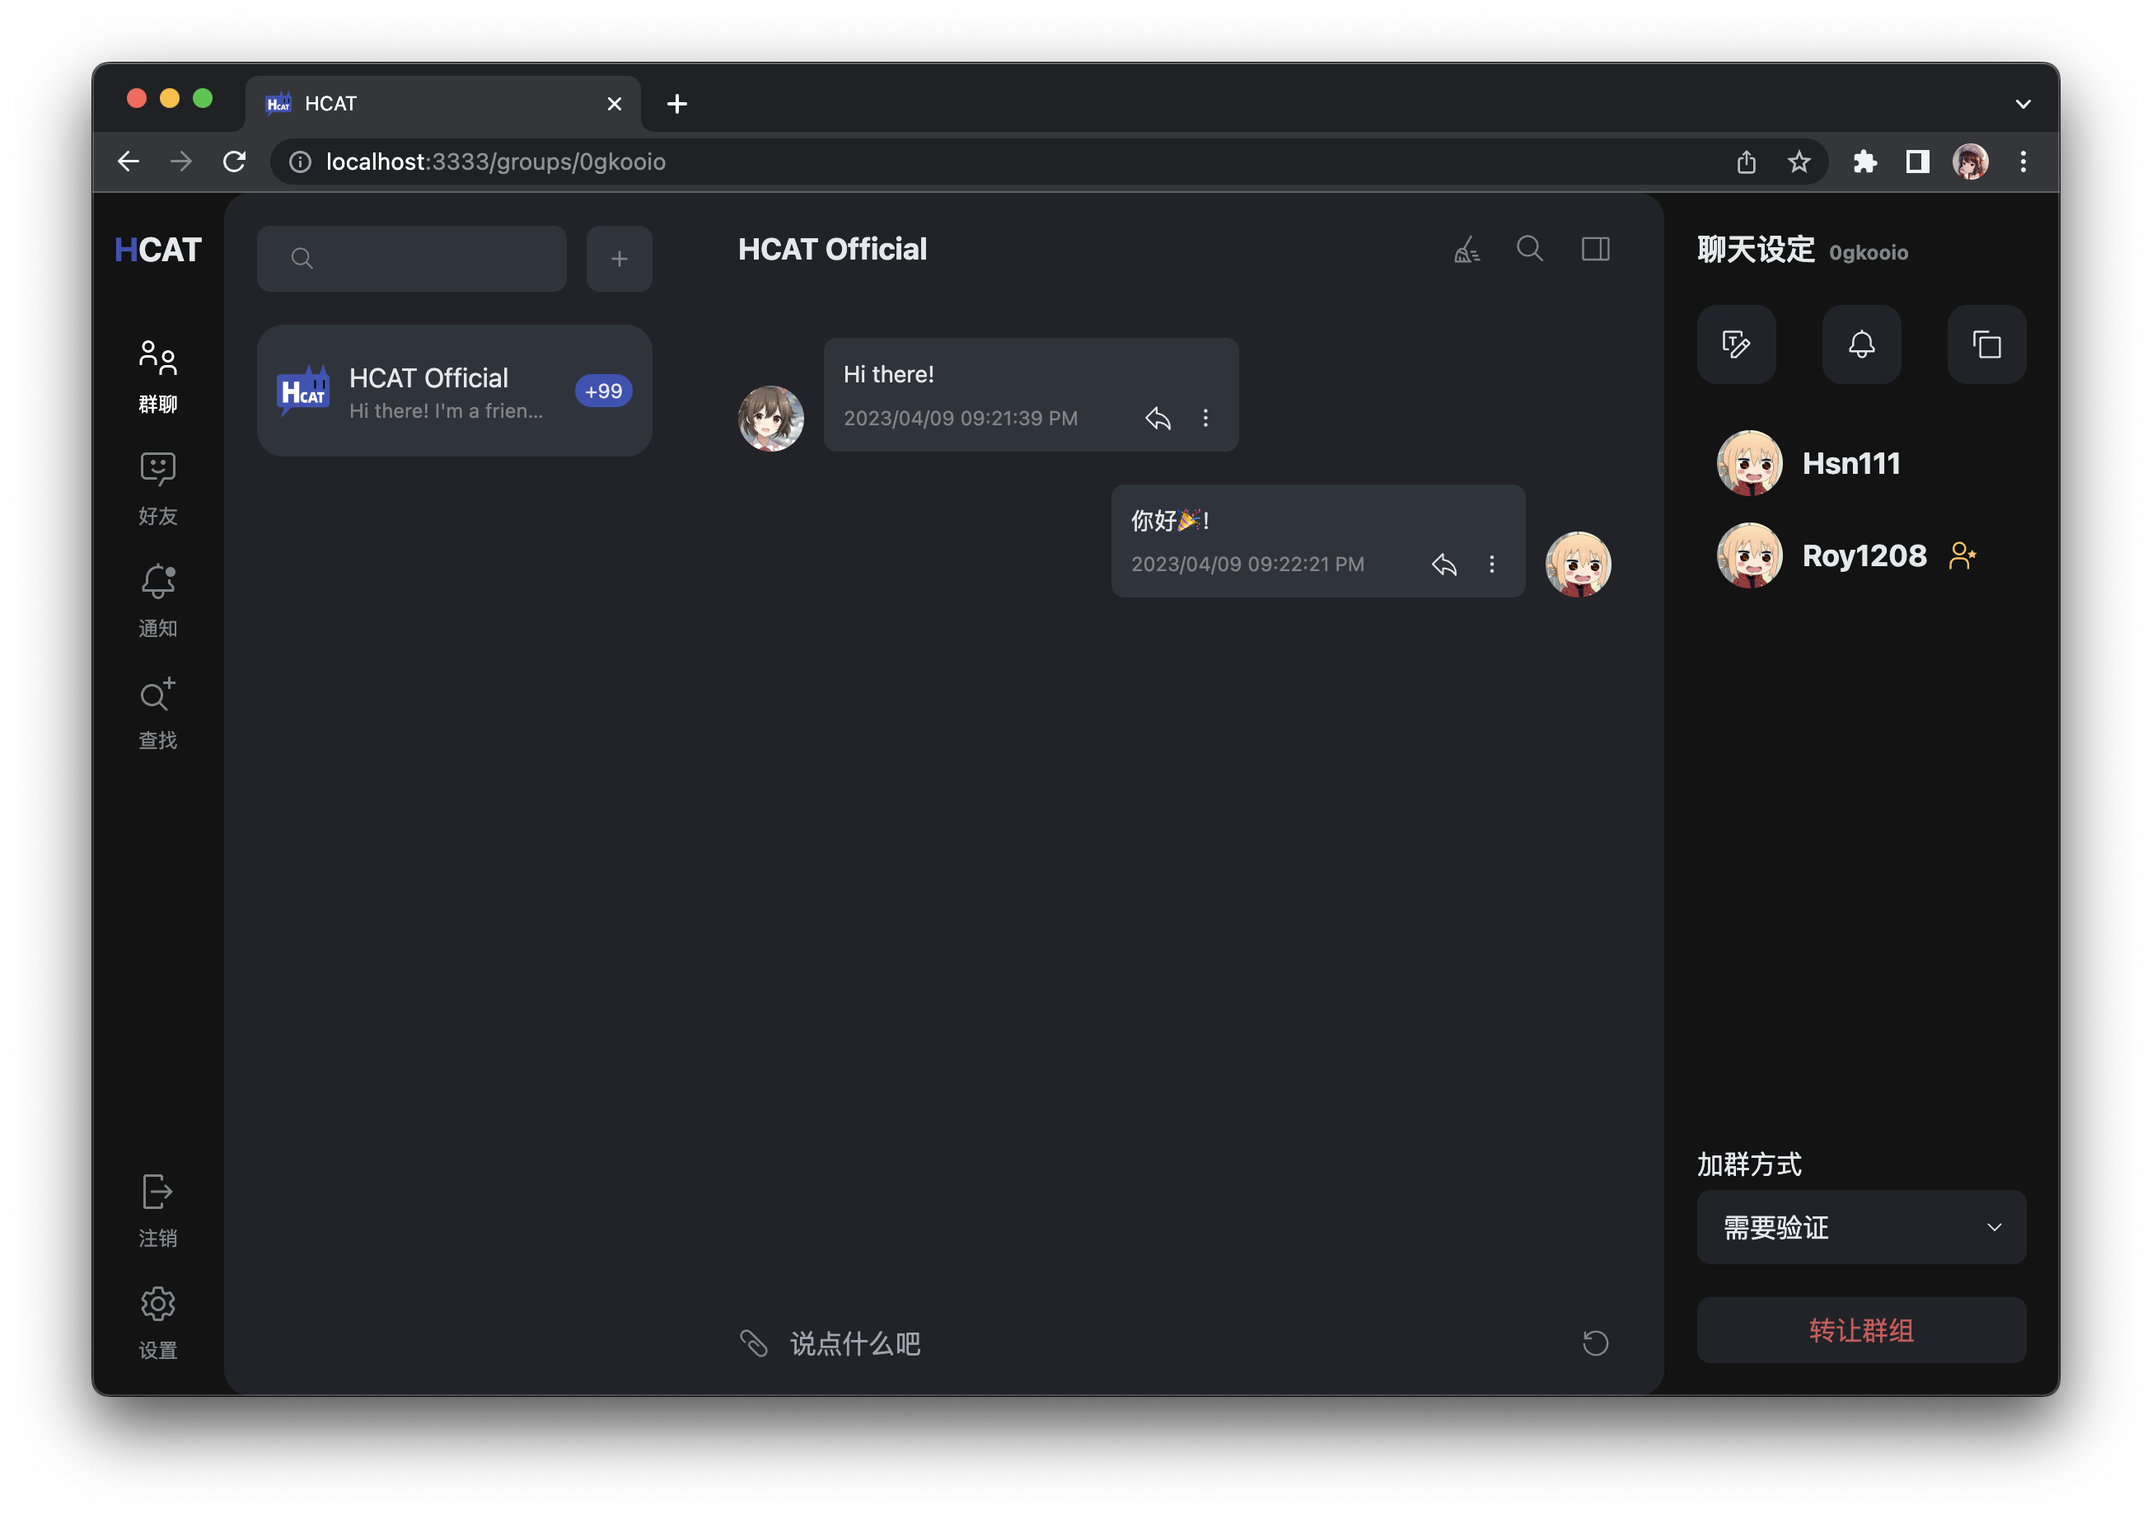
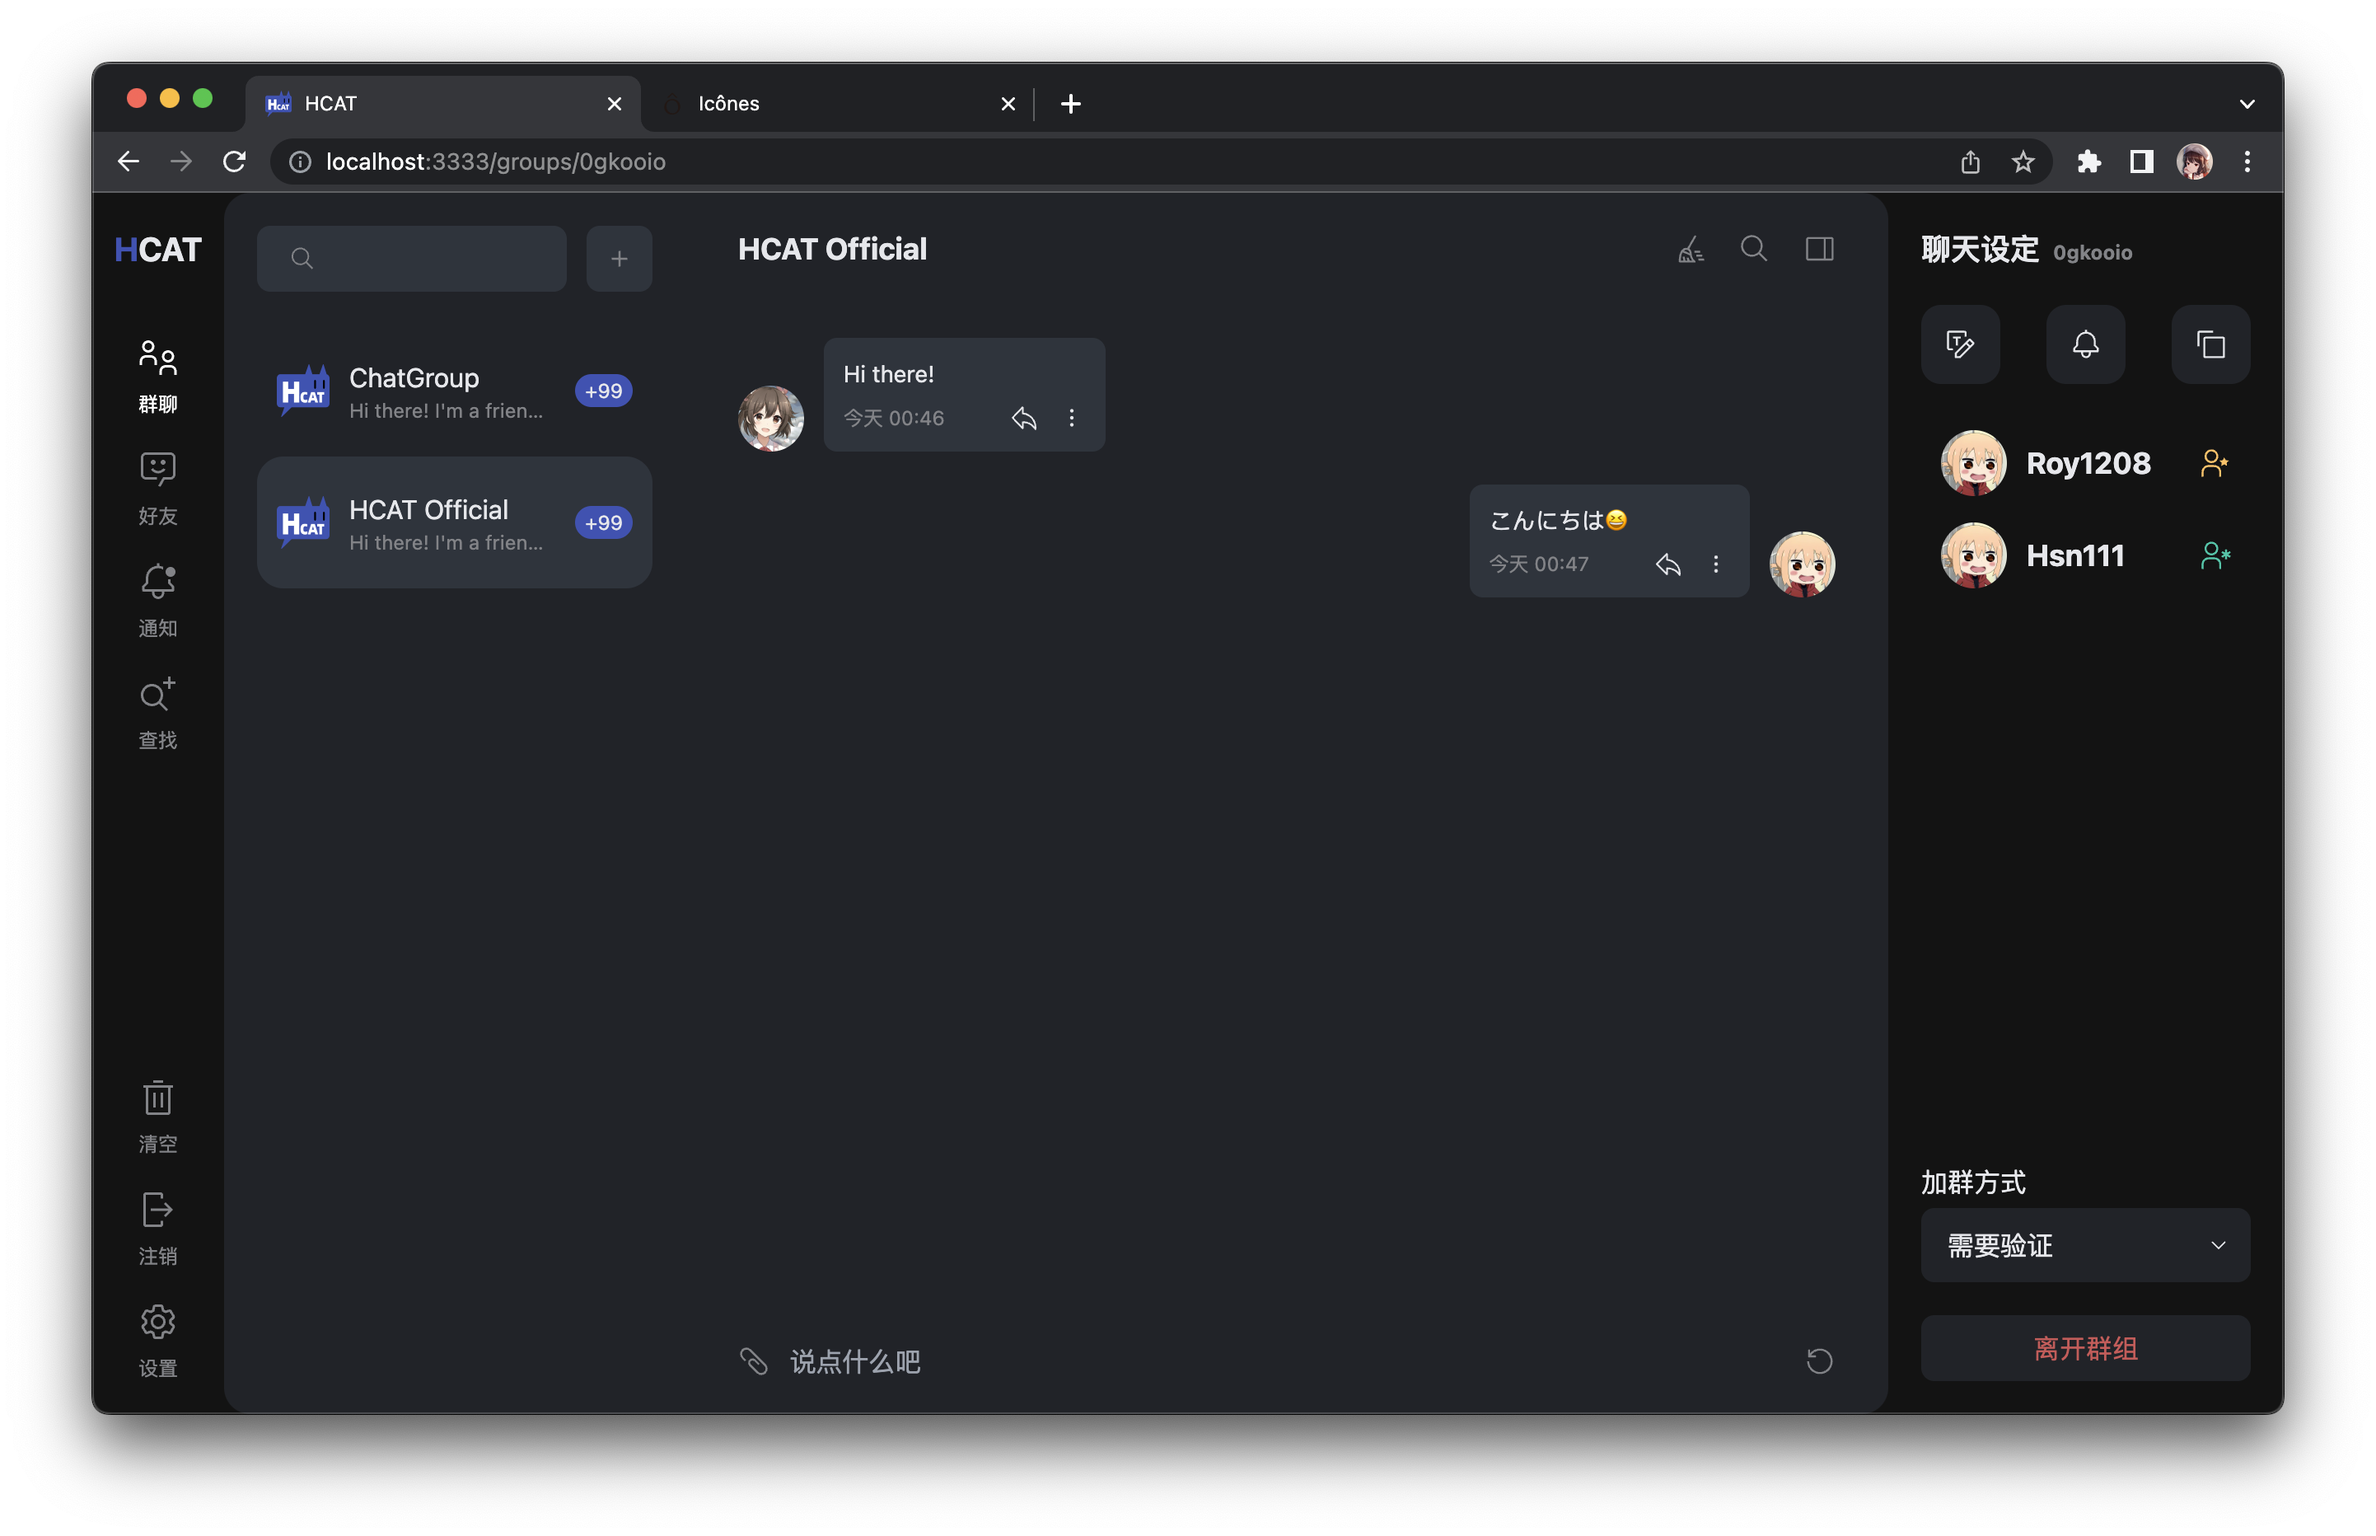
feat: assign admin in group

diff --git a/src/pages/index/groups/[id].vue b/src/pages/index/groups/[id].vue
@@ -15,28 +15,48 @@ const verificationMethod = $ref({
 })
 let inputMessage = $ref('')
 
-watch(() => props.id, () => {
-  changeActiveChat('group', props.id)
+watch(() => props.id, async () => {
+  await changeActiveChat('group', props.id)
 }, { immediate: true })
 
 async function changeActiveChat(type: ChatType, id: string) {
   // TODO:区分群聊和私聊
   store.activeChat.type = type
   store.activeChat.id = id
-  const getSelfPms = store.getSelfPmsInGroup(id).then((res: any) => {
-    store.activeChat.permission = res
+
+  const requestList = [getSelfPmsInGroup(), getGroupSetting(), getGroupMembers()]
+  await Promise.all(requestList)
+}
+
+async function getGroupMembers() {
+  await store.getGroupMembers().then((res) => {
+    // 将permission为owner的member放在第一位
+    const owners = []
+    const members = []
+    for (const k in res) {
+      const member = { user_id: k, permission: res[k].permission }
+      if (res[k].permission === 'owner')
+        owners.unshift(member)
+      else
+        members.push(member)
+    }
+    store.activeChat.members = owners.concat(members)
   }).catch((_) => {
   })
-  const getGroupSetting = store.getGroupSetting(id).then((res) => {
+}
+
+async function getGroupSetting() {
+  await store.getGroupSetting().then((res) => {
     store.activeChat.setting = res
   }).catch((_) => {
   })
-  const getGroupMembers = store.getGroupMembers(id).then((res) => {
-    store.activeChat.members = res
+}
+
+async function getSelfPmsInGroup() {
+  store.getSelfPmsInGroup().then((res: any) => {
+    store.activeChat.permission = res
   }).catch((_) => {
   })
-  const requestList = [getSelfPms, getGroupSetting, getGroupMembers]
-  await Promise.all(requestList)
 }
 
 async function sendMessage() {
@@ -47,7 +67,6 @@ async function sendMessage() {
     const msg = {
       msg_chain: [{ type: 'text', msg: inputMessage }],
     }
-
     const form = {
       group_id: store.activeChat.id,
       msg: JSON.stringify(msg),
@@ -106,6 +125,23 @@ async function fetchTodo() {
         msg,
       ]
     })
+  }).catch((err) => {
+    alert(err)
+  })
+}
+
+async function giveAdmin(userId: string) {
+  await store.addAdmin(userId).then(async (res) => {
+    await getGroupMembers()
+  }).catch((err) => {
+    alert(err)
+  })
+}
+
+// TODO: 后端无效
+async function removeAdmin(userId: string) {
+  await store.removeAdmin(userId).then(async (res) => {
+    await getGroupMembers()
   }).catch((err) => {
     alert(err)
   })
@@ -174,12 +210,20 @@ function clearMessages() {
       </div>
       <div flex-1 flex="~ col">
         <!-- Members -->
-        <div v-for="item, key in store.activeChat.members!" :key="key" flex items-center gap-3 hover="bg-back-gray" rounded-lg p="x3 y2">
-          <img src="/avatar.jpeg" w-10 h-10 rounded-full>
-          <p text="lg" font-bold>
-            {{ key }}
-          </p>
-          <div text-warning :class="[item.permission === 'owner' ? 'i-carbon-user-certification' : '']" />
+        <div v-for="item, key in store.activeChat.members" :key="key" flex items-center justify-between hover="bg-back-gray" rounded-lg p="x3 y2">
+          <div flex items-center gap-3>
+            <img src="/avatar.jpeg" w-10 h-10 rounded-full>
+            <p text="lg" font-bold>
+              {{ item.user_id }}
+            </p>
+          </div>
+          <div v-if="item.permission === 'owner'" text-warning i-carbon-user-certification />
+          <button v-else-if="item.permission === 'admin'" :disabled="store.activeChat.permission !== 'owner'" @click="removeAdmin(item.user_id)">
+            <div text-safe i-carbon-user-sponsor />
+          </button>
+          <button v-else :disabled="store.activeChat.permission !== 'owner'" @click="giveAdmin(item.user_id)">
+            <div text-text-secondary i-carbon-user-admin />
+          </button>
         </div>
       </div>
       <div v-if="store.activeChat.permission === 'owner' || store.activeChat.permission === 'admin'" flex="~ col" text-start gap-1>
@@ -199,7 +243,7 @@ function clearMessages() {
       <button v-if="store.activeChat.permission === 'owner'" bg-back-gray w-full py-2 rounded-lg hover="bg-back-light" text-important>
         转让群组
       </button>
-      <button v-if="store.activeChat.permission !== 'owner'" bg-back-gray w-full py-2 rounded-lg hover="bg-back-light" text-important @click="leaveGroup">
+      <button v-else bg-back-gray w-full py-2 rounded-lg hover="bg-back-light" text-important @click="leaveGroup">
         离开群组
       </button>
     </div>

diff --git a/src/stores/store.ts b/src/stores/store.ts
@@ -1,5 +1,5 @@
 import { defineStore } from 'pinia'
-import { agreeJoinGroupReqApi, authTokenApi, changeGroupSettingApi, createGroupApi, getGroupListApi, getGroupMembersApi, getGroupNameApi, getGroupSettingApi, getGroupVerificationApi, getSelfPmsInGroupApi, getTodoListApi, joinGroupApi, leaveGroupApi, loginApi, logoutApi, registerApi, sendGroupMsgApi } from '~/api'
+import { addAdminApi, agreeJoinGroupReqApi, authTokenApi, changeGroupSettingApi, createGroupApi, getGroupListApi, getGroupMembersApi, getGroupNameApi, getGroupSettingApi, getGroupVerificationApi, getSelfPmsInGroupApi, getTodoListApi, joinGroupApi, leaveGroupApi, loginApi, logoutApi, registerApi, removeAdminApi, sendGroupMsgApi } from '~/api'
 import { setCookie } from '~/composables'
 import type { ActiveChat, GpJoinRequest, Group, GroupList, GroupMembers, GroupMessage, GroupSetting, Todo } from '~/types'
 
@@ -43,8 +43,8 @@ interface GroupMessages {
 export const useStore = defineStore('stores', {
   state: () => ({
     activeChat: {
-      type: null,
       id: '',
+      members: [],
     } as ActiveChat,
     groupList: {
     } as GroupList,
@@ -160,10 +160,10 @@ export const useStore = defineStore('stores', {
         })
       })
     },
-    getSelfPmsInGroup(groupId: string) {
+    getSelfPmsInGroup() {
       return new Promise((resolve, reject) => {
         const { execute } = getSelfPmsInGroupApi()
-        execute({ data: { group_id: groupId } }).then((res) => {
+        execute({ data: { group_id: this.activeChat.id } }).then((res) => {
           if (res.data.value.status === 'ok')
             resolve(res.data.value.data)
           else
@@ -171,10 +171,10 @@ export const useStore = defineStore('stores', {
         })
       })
     },
-    getGroupSetting(groupId: string) {
+    getGroupSetting() {
       return new Promise((resolve: (value: GroupSetting) => void, reject) => {
         const { execute } = getGroupSettingApi()
-        execute({ data: { group_id: groupId } }).then((res) => {
+        execute({ data: { group_id: this.activeChat.id } }).then((res) => {
           if (res.data.value.status === 'ok')
             resolve(res.data.value.data as GroupSetting)
           else
@@ -193,10 +193,10 @@ export const useStore = defineStore('stores', {
         })
       })
     },
-    getGroupMembers(groupId: string) {
+    getGroupMembers() {
       return new Promise((resolve: (value: GroupMembers) => void, reject) => {
         const { execute } = getGroupMembersApi()
-        execute({ data: { group_id: groupId } }).then((res) => {
+        execute({ data: { group_id: this.activeChat.id } }).then((res) => {
           if (res.data.value.status === 'ok')
             resolve(res.data.value.data)
           else
@@ -219,6 +219,28 @@ export const useStore = defineStore('stores', {
       return new Promise((resolve, reject) => {
         const { execute } = leaveGroupApi()
         execute({ data: { group_id: groupId } }).then((res) => {
+          if (res.data.value.status === 'ok')
+            resolve(res.data.value)
+          else
+            reject(res.data.value.message)
+        })
+      })
+    },
+    addAdmin(member_id: string) {
+      return new Promise((resolve, reject) => {
+        const { execute } = addAdminApi()
+        execute({ data: { group_id: this.activeChat.id, member_id } }).then((res) => {
+          if (res.data.value.status === 'ok')
+            resolve(res.data.value)
+          else
+            reject(res.data.value.message)
+        })
+      })
+    },
+    removeAdmin(admin_id: string) {
+      return new Promise((resolve, reject) => {
+        const { execute } = removeAdminApi()
+        execute({ data: { group_id: this.activeChat.id, admin_id } }).then((res) => {
           if (res.data.value.status === 'ok')
             resolve(res.data.value)
           else
@@ -254,6 +276,9 @@ export const useStore = defineStore('stores', {
     },
     removeGroupNotification(rid: string) {
       this.gpJoinReqList = this.gpJoinReqList.filter(item => item.rid !== rid)
+    },
+    clearMessageStorage() {
+      this.groupMessages = {}
     },
 
   },

diff --git a/src/composables/utils.ts b/src/composables/utils.ts
@@ -11,33 +11,22 @@ export function getCookie(name: string) {
 
 export function convertTimeStampToTime(timeStamp: number): string {
   const date = new Date(timeStamp * 1000)
-  const dateString = date.toLocaleString('en-US', {
-    year: 'numeric',
-    month: '2-digit',
-    day: '2-digit',
-    hour: '2-digit',
-    minute: '2-digit',
-    second: '2-digit',
-  })
-  return dateString.replace(',', '').replace(/(\d+)\/(\d+)\/(\d+)/, '$3/$1/$2')
-}
-
-export function getDisplayTime(timeStamp: number): string {
-  // 获取当前日期和时间
-  const now = new Date(timeStamp)
-
-  // 判断是否为今天
-  const isToday = now.toDateString() === new Date().toDateString()
-
-  // 格式化日期
-  const date = isToday ? '今天' : now.toLocaleDateString('zh-CN', { year: 'numeric', month: '2-digit', day: '2-digit' })
-
-  // 格式化时间
-  const time = now.toLocaleTimeString('zh-CN', { hour: '2-digit', minute: '2-digit' })
-
-  // 拼接日期和时间
-  const datetime = isToday ? `${date} ${time}` : `${date} ${time}`
-
-  // 显示
-  return datetime// 示例输出：今天 23:20
+  // 如果是今天就返回 今天+时间,再判断是否是昨天 再判断是否是今年如果是就返回月日+时间,不是就返回年月日+时间
+  if (date.toDateString() === new Date().toDateString()) {
+    return `今天 ${date.toLocaleTimeString('zh-CN', { hour: '2-digit', minute: '2-digit' })}`
+  }
+  else if (date.toDateString() === new Date(new Date().getTime() - 24 * 60 * 60 * 1000).toDateString()) {
+    return `昨天 ${date.toLocaleTimeString('zh-CN', { hour: '2-digit', minute: '2-digit' })}`
+  }
+  else if (date.getFullYear() === new Date().getFullYear()) {
+    const month = date.getMonth() + 1
+    const day = date.getDate()
+    return `${month}月${day}日 ${date.toLocaleTimeString('zh-CN', { hour: '2-digit', minute: '2-digit' })}`
+  }
+  else {
+    const year = date.getFullYear()
+    const month = date.getMonth() + 1
+    const day = date.getDate()
+    return `${year}年${month}月${day}日 ${date.toLocaleTimeString('zh-CN', { hour: '2-digit', minute: '2-digit' })}`
+  }
 }

diff --git a/src/types.ts b/src/types.ts
@@ -1,5 +1,5 @@
 export type ChatType = 'friend' | 'group'
-export type GroupPermission = 'owner' | 'admin' | 'guest'
+export type GroupPermission = 'owner' | 'admin' | 'member'
 export type GroupVerificationMethod = 'ac' | 'fr' | 'na' | 'aw'
 const todoTypeList = [
   'friend_request',
@@ -21,11 +21,11 @@ export type TodoType = typeof todoTypeList[number]
 
 export interface ActiveChat {
   // TODO:check
-  type: ChatType | null
+  type?: ChatType
   id: string
   permission?: GroupPermission
   setting?: GroupSetting
-  members?: GroupMembers
+  members: GroupMember[]
 }
 
 // 接收到的群消息接口
@@ -65,10 +65,16 @@ export interface Group {
   remark: string
 }
 
+// api返回的群列表接口
 export interface GroupMembers {
   [key: string]: {
     permission: GroupPermission
   }
+}
+
+export interface GroupMember {
+  user_id: string
+  permission: GroupPermission
 }
 
 export interface Todo {

diff --git a/src/pages/index.vue b/src/pages/index.vue
@@ -127,6 +127,10 @@ async function logout() {
         </Modal>
       </div>
       <div flex="~ col" gap-5 text="xs text-secondary">
+        <button flex="~ col" items-center gap-2 hover="text-light" @click="store.clearMessageStorage">
+          <div w-6 h-6 i-carbon-trash-can />
+          <p> 清空</p>
+        </button>
         <button flex="~ col" items-center gap-2 hover="text-light" @click="logout">
           <div w-6 h-6 i-carbon-logout />
           <p> 注销</p>

diff --git a/unocss.config.ts b/unocss.config.ts
@@ -13,6 +13,7 @@ export default defineConfig({
       primary: { DEFAULT: '#4050B5', light: '#5D63BE' },
       important: { DEFAULT: '#CE5457' },
       warning: { DEFAULT: '#FFC05B' },
+      safe: { DEFAULT: '#00C9A7' },
       input: { DEFAULT: '#FFFFFF' },
       link: '#0086D1',
       text: { DEFAULT: '#000000', light: '#FFFFFF', secondary: '#828387' },

diff --git a/src/api/group.ts b/src/api/group.ts
@@ -71,3 +71,14 @@ export function getGroupNameApi() {
     method: 'POST',
   })
 }
+export function addAdminApi() {
+  return useAxiosApi('/group/add_admin', {
+    method: 'POST',
+  })
+}
+
+export function removeAdminApi() {
+  return useAxiosApi('/group/remove_admin', {
+    method: 'POST',
+  })
+}
